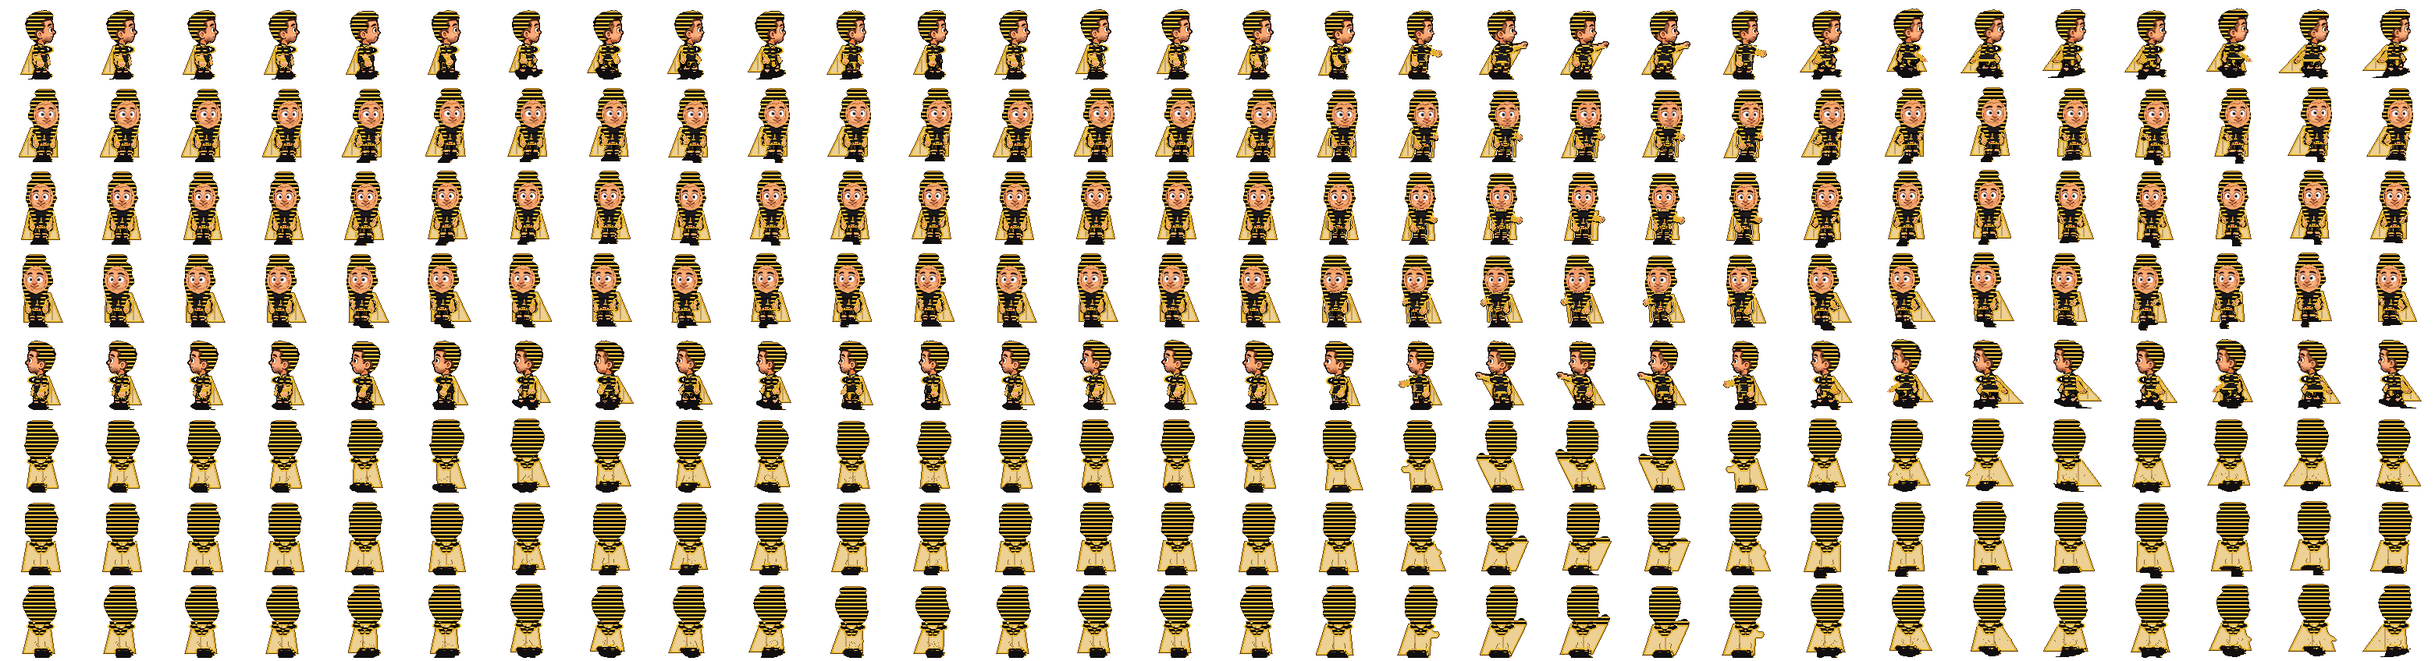
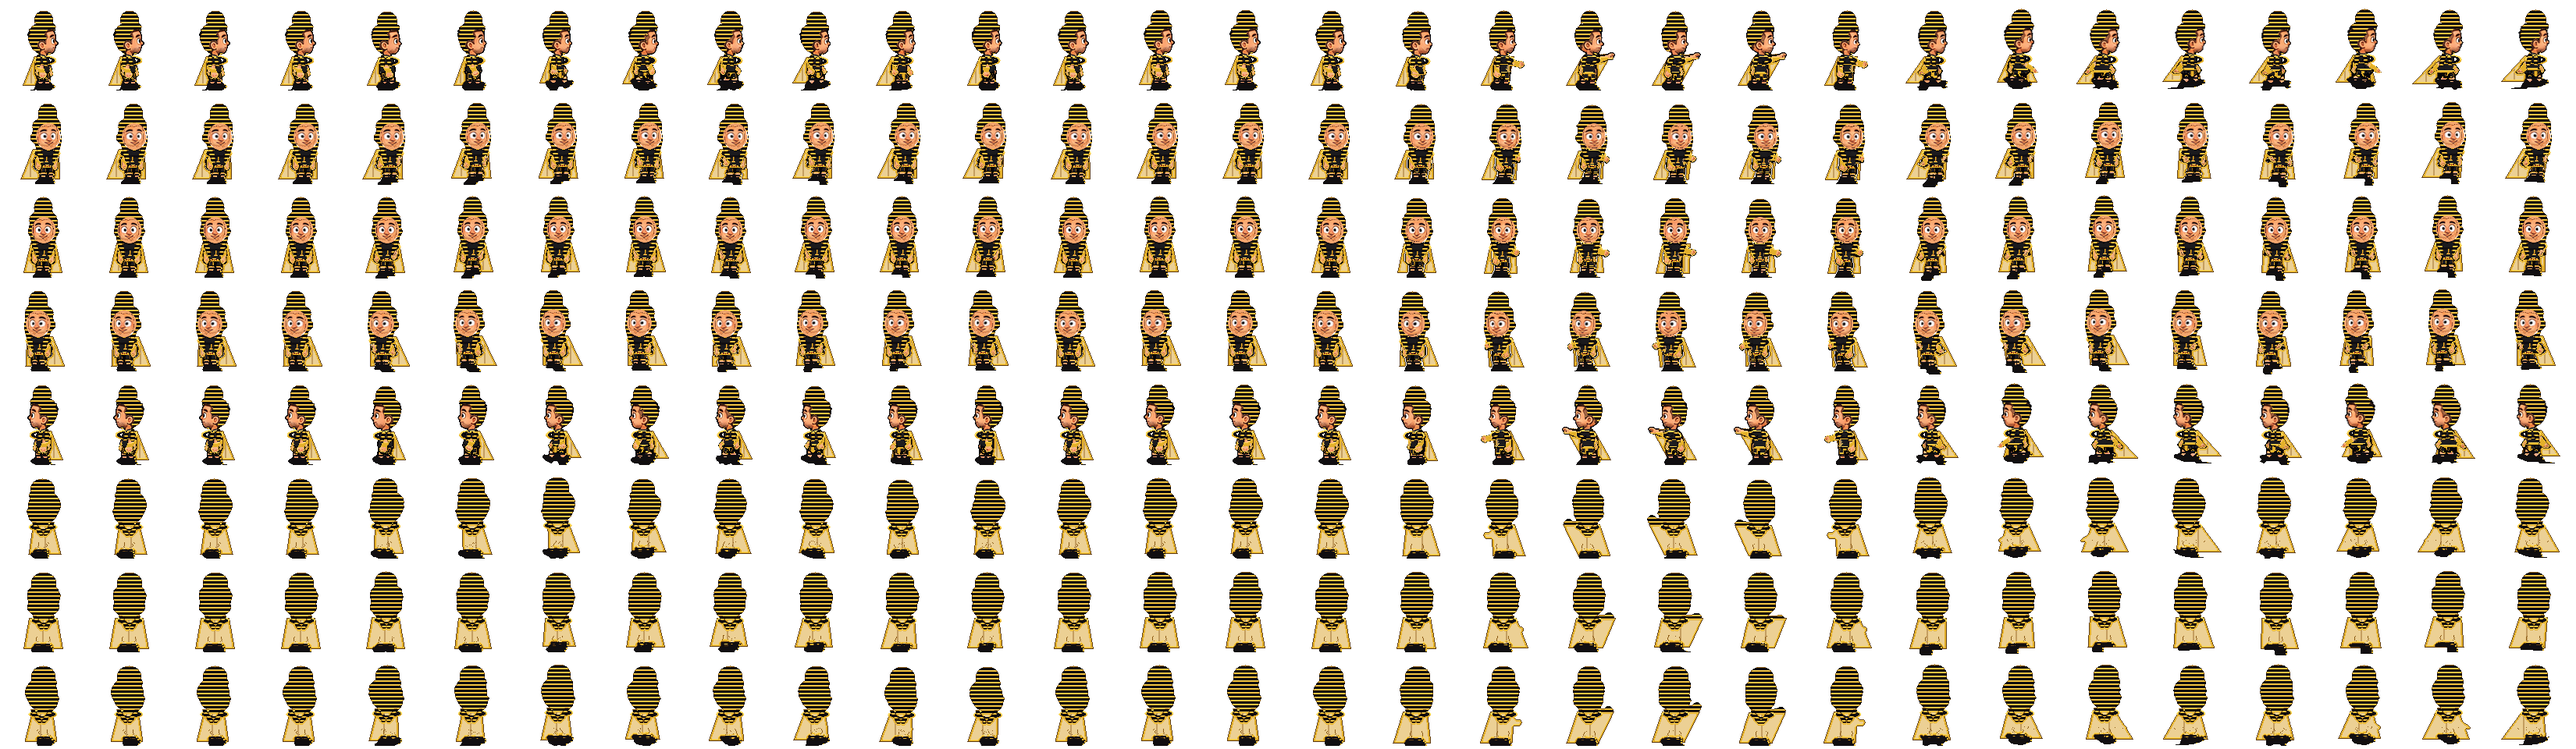
Raise the nemes crown and clean the face opening
The crown gains two stripe bands above the brow. The face hole no
longer keeps a dark rim: James's face stays exact and the stripes
meet it on the oval curve. The skins card draws Pharaoh at the same
whole-pixel scale as the other costumes.

Changed region(s): [[0.0, 0.0, 0.9949, 0.4906], [0.0, 0.5212, 0.9949, 1.0]]

diff --git a/phaser-tag-client/src/style.css b/phaser-tag-client/src/style.css
@@ -1110,6 +1110,11 @@ canvas {
 .skin-card {
   flex: 0 0 calc((100% - (var(--cols) - 1) * var(--gap)) / var(--cols));
   --s: 1.2; /* preview scale (big 2-up cards; trex frames are wide) */
+  /* sprite draw scale. Defaults to --s. Pharaoh's frame is a multiple of
+     10, so 1.2 / 1 / 0.9 / 0.8 all land on whole pixels, same as James.
+     The narrow layouts use 0.82 and 0.72, which do not, so those
+     override --draw below. */
+  --draw: var(--s);
   box-sizing: border-box;
   min-width: 0;
   display: flex;
@@ -1150,25 +1155,25 @@ canvas {
   position: absolute;
   left: 50%;
   bottom: 0;
-  width: calc(var(--fw) * var(--s) * 1px);
-  height: calc(var(--fh) * var(--s) * 1px);
+  width: calc(var(--fw) * var(--draw) * 1px);
+  height: calc(var(--fh) * var(--draw) * 1px);
   transform: translateX(-50%);
   background-image: var(--sheet);
   background-repeat: no-repeat;
   /* 30 frames per row, 8 rows; row 2 = facing the camera (S) */
-  background-size: calc(var(--fw) * var(--s) * 30px) calc(var(--fh) * var(--s) * 8px);
-  background-position-y: calc(var(--fh) * var(--s) * -2px);
+  background-size: calc(var(--fw) * var(--draw) * 30px) calc(var(--fh) * var(--draw) * 8px);
+  background-position-y: calc(var(--fh) * var(--draw) * -2px);
   image-rendering: pixelated;
   animation: skin-breathe 1.3s steps(4) infinite;
 }
 .skin-card.picked .skin-preview { animation: skin-walk .8s steps(8) infinite; }
 @keyframes skin-breathe { /* breathing frames 12-15 */
-  from { background-position-x: calc(var(--fw) * var(--s) * -12px); }
-  to { background-position-x: calc(var(--fw) * var(--s) * -16px); }
+  from { background-position-x: calc(var(--fw) * var(--draw) * -12px); }
+  to { background-position-x: calc(var(--fw) * var(--draw) * -16px); }
 }
 @keyframes skin-walk { /* walk frames 4-11 */
-  from { background-position-x: calc(var(--fw) * var(--s) * -4px); }
-  to { background-position-x: calc(var(--fw) * var(--s) * -12px); }
+  from { background-position-x: calc(var(--fw) * var(--draw) * -4px); }
+  to { background-position-x: calc(var(--fw) * var(--draw) * -12px); }
 }
 .skin-name {
   max-width: 100%;
@@ -1197,6 +1202,8 @@ canvas {
 @container pane (max-width: 339px) {
   .skin-cards { --cols: 2; --gap: 12px; }
   .skin-card { --s: .82; padding: 8px 6px 10px; }
+  /* 0.82 of a 110×120 frame is not a whole pixel */
+  .skin-card[data-skin="pharaoh"] { --draw: 0.5; }
   .skin-name { font-size: 14px; }
   .skin-note { font-size: 11px; }
 }
@@ -1227,6 +1234,7 @@ canvas {
   }
   .skin-name { align-self: center; font-size: 14px; text-align: center; }
   .skin-note { align-self: center; font-size: 11px; text-align: center; }
+  .skin-card[data-skin="pharaoh"] { --draw: 0.8; }
 }
 /* Short laptop screens: a tighter 3-up so all six skins fit unscrolled. */
 @media (max-height: 700px) {
@@ -1242,7 +1250,7 @@ canvas {
   .settings-pane { padding-top: 12px; padding-bottom: 14px; }
 }
 @media (prefers-reduced-motion: reduce) {
-  .skin-preview, .skin-card.picked .skin-preview { animation: none; background-position-x: calc(var(--fw) * var(--s) * -12px); }
+  .skin-preview, .skin-card.picked .skin-preview { animation: none; background-position-x: calc(var(--fw) * var(--draw) * -12px); }
 }
 
 /* ------------------------------------------------------------------------

diff --git a/phaser-tag-client/src/skins.ts b/phaser-tag-client/src/skins.ts
@@ -104,12 +104,13 @@ export const SKINS: Record<Skin, SkinSheet> = {
     note: "All hail, you're it!",
     texture: "kid_pharaoh",
     url: `${BASE}assets/kid_pharaoh.png`,
-    // padded: 12px each side for the cape, 6px on top for the nemes crown
-    frameWidth: 104,
-    frameHeight: 106,
-    baselineY: 102,
-    // striped crown tops out ~94px above the feet
-    artHeight: 94,
+    // padded: 15px each side for the cape, 20px on top for the tall nemes crown.
+    // 110×120 keeps the skins-card scale (1.2) on whole pixels.
+    frameWidth: 110,
+    frameHeight: 120,
+    baselineY: 116,
+    // striped crown tops out ~106px above the feet
+    artHeight: 106,
   },
 };
 

diff --git a/phaser-tag-client/tools/make_pharaoh_skin.py b/phaser-tag-client/tools/make_pharaoh_skin.py
@@ -5,7 +5,7 @@ Input:  public/assets/kid.png + kid.json (made by tools/slice_kid_sheet.py)
 Output: public/assets/kid_pharaoh.png + kid_pharaoh.json
 
 Same columns, rows and animation ranges as kid.png. Frames are padded
-(PAD_SIDE each side for the cape flare, PAD_TOP for the nemes crown), so
+(PAD_SIDE each side for the cape flare, PAD_TOP for the tall nemes crown), so
 the frame size and feet line differ from James (see src/skins.ts).
 
 Costume pixels are hard-edged (no supersampled haze) so the black-and-gold
@@ -53,8 +53,11 @@ from make_tuxedo_skin import close_streaks, lum
 HERE = Path(__file__).resolve().parent
 ASSETS = HERE.parent / "public" / "assets"
 
-PAD_TOP = 6
-PAD_SIDE = 12
+PAD_TOP = 20  # room above the hair for a tall nemes crown
+PAD_SIDE = 15  # frame width 110, so the skins card's 1.2 scale is whole pixels
+# Cloth piled above the hairline, in frame pixels. Two extra stripe
+# bands (the stripe period is 5) so the crown is not a flat cap.
+CROWN_LIFT = 14
 
 PROFILE = {"E": 1, "W": -1}
 BACK = {"NW", "N", "NE"}
@@ -255,7 +258,7 @@ def face_window(
     if oval is None:
         return coverage, np.zeros((h, w), dtype=bool), keep, None
     cx, cy, rx, ry = oval
-    coverage = _ellipse_coverage(h, w, cx, cy, rx, ry)
+    coverage = _ellipse_coverage(h, w, cx, cy, rx, ry, samples=8)
     yy, xx = np.mgrid[0:h, 0:w]
     # room around the head so the curve isn't clipped back to the silhouette
     head = dilate(alpha_mask(f) & (yy <= g.neck + 3) & (yy >= g.top - 2), 3)
@@ -288,6 +291,18 @@ def blend_lappet_edges(
     shown[band, 3] = np.where(opaque[band], 255, np.maximum(shown[band, 3], soft[band]))
 
 
+def _seam_weight(coverage: np.ndarray) -> np.ndarray:
+    """1 = face, 0 = stripe.
+
+    The ellipse's partial pixels (the curve itself) blend. The far tail,
+    a pixel the curve only nicks, snaps to solid stripe so it cannot sit
+    there as a dark fringe.
+    """
+    t = (coverage - 0.10) / 0.80
+    t = np.clip(t, 0.0, 1.0)
+    return t * t * (3.0 - 2.0 * t)
+
+
 def blend_face_oval(
     shown: np.ndarray,
     original: np.ndarray,
@@ -295,15 +310,22 @@ def blend_face_oval(
     keep: np.ndarray,
     g: Geometry,
 ) -> None:
-    """Anti-alias the stripes into the oval.
+    """Sit the face in the oval and meet the stripes on a smooth curve.
 
-    The hard 0.5 contour is replaced by a subpixel mix, so the cloth edge is
-    a curve instead of a staircase. Gaps inside the oval (a hair pixel, a
-    transparent nick) take the face's own skin colour so the hole never shows
-    the yard. Stripe rows match paint_stripes.
+    James's own face pixels stay exact, including any the oval only grazes,
+    so the cloth cannot stair-step through a cheek. A one-pixel gap between
+    skin and cloth (a hair outline, a transparent nick) is filled by the
+    same curve. Side views pass a zero coverage and are left untouched.
     """
-    band = coverage > 0.02
-    if not band.any():
+    if coverage.size == 0 or float(np.max(coverage)) <= 0.0:
+        return
+    weight = _seam_weight(coverage)
+    # the real face wins outright — never a stripe mixed into an eye or a cheek
+    weight[keep & (original[..., 3] > 0)] = 1.0
+    gap = dilate(keep, 1) & ~keep
+    opaque = (shown[..., 3] > 20) | (original[..., 3] > 20)
+    apply = (opaque & ((coverage > 0.02) | keep)) | (gap & (coverage > 0.2))
+    if not apply.any():
         return
     skin_px = original[keep & skin_mask(original)]
     if len(skin_px):
@@ -311,16 +333,16 @@ def blend_face_oval(
     else:
         skin_rgb = np.array([232.0, 186.0, 154.0], dtype=np.float32)
     face = original[..., :3].astype(np.float32)
-    face[band & ~keep] = skin_rgb
+    face[apply & ~keep] = skin_rgb
     rel = (np.arange(shown.shape[0]) - (g.top - 4))[:, None]
     gold = np.broadcast_to((rel % 5) <= 1, coverage.shape)
     stripe = np.empty(shown.shape[:2] + (3,), dtype=np.float32)
     stripe[:] = NEMES.astype(np.float32)
     stripe[gold] = GOLD.astype(np.float32)
-    c = coverage[..., None]
-    mixed = face * c + stripe * (1.0 - c)
-    shown[band, :3] = np.clip(mixed[band], 0, 255).astype(np.uint8)
-    shown[band, 3] = 255
+    w = weight[..., None]
+    mixed = face * w + stripe * (1.0 - w)
+    shown[apply, :3] = np.clip(mixed[apply], 0, 255).astype(np.uint8)
+    shown[apply, 3] = 255
 
 
 def phase_sway(anim: str, col: int) -> float:
@@ -548,6 +570,14 @@ def _profile_nemes(
     edge = dark & dilate(hair, 2)
     # stop a pixel short of the skin so the nose, ear and jaw keep their line
     cloth = (hair | crown | edge) & ~dilate(face, 1)
+    # a tall crown above the hair, same lift as the front, clear of the profile
+    xs = np.nonzero((hair & (yy < g.top + 8)).any(axis=0))[0]
+    if len(xs):
+        mid = (float(xs.min()) + float(xs.max())) / 2.0
+        half = (float(xs.max()) - float(xs.min())) / 2.0
+        dome = ellipse(yy + 0.0, xx + 0.0, mid, float(g.top), max(half * 0.92, 5.0), float(CROWN_LIFT))
+        dome &= (yy >= g.top - CROWN_LIFT) & (yy <= g.top + 2) & ~dilate(face, 2)
+        cloth |= dome
     toward = float(PROFILE[direction])
 
     def _side(y: int, back: bool) -> float:
@@ -602,9 +632,10 @@ def nemes_cloth(
     xs = np.nonzero((head & (yy < g.top + 8)).any(axis=0))[0]
     if len(xs):
         mid = (float(xs.min()) + float(xs.max())) / 2
-        half = (float(xs.max()) - float(xs.min())) / 2 + 2.0
-        dome = ellipse(yy + 0.0, xx + 0.0, mid, g.top + 1.0, half, 6.5)
-        dome &= (yy >= g.top - 4) & (yy <= g.top + 6)
+        half = (float(xs.max()) - float(xs.min())) / 2 + 1.5
+        # rounded peak well above the brow; the sides join the hair
+        dome = ellipse(yy + 0.0, xx + 0.0, mid, float(g.top), max(half * 0.96, 6.0), float(CROWN_LIFT))
+        dome &= (yy >= g.top - CROWN_LIFT) & (yy <= g.top + 5)
         cloth |= dome
     # crown ends at the jaw so it doesn't become a gold bib
     if opening.any():
@@ -657,7 +688,9 @@ def nemes_cloth(
     return cloth, lappets, lappet_cov
 
 
-def paint_stripes(img: np.ndarray, mask: np.ndarray, g: Geometry) -> None:
+def paint_stripes(
+    img: np.ndarray, mask: np.ndarray, g: Geometry, hole: np.ndarray | None = None
+) -> None:
     if not mask.any():
         return
     yy = np.arange(img.shape[0])[:, None]
@@ -667,7 +700,11 @@ def paint_stripes(img: np.ndarray, mask: np.ndarray, g: Geometry) -> None:
     stamp(img, mask & stripe, GOLD)
     lip = (mask & stripe) & ~np.pad(mask & stripe, ((1, 0), (0, 0)))[:-1]
     stamp(img, lip, GOLD_BRIGHT)
+    # outer silhouette only. A dark rim on the face hole reads as a black
+    # fringe between skin and cloth.
     edge = mask & ~erode(mask, 1)
+    if hole is not None:
+        edge &= ~dilate(hole, 2)
     stamp(img, edge & ~stripe, NEMES_EDGE)
     stamp(img, edge & stripe, GOLD_DARK)
 
@@ -925,8 +962,8 @@ def pharaohify(frame: np.ndarray, direction: str, anim: str, col: int) -> np.nda
 
     collar = paint_collar(shown, g, direction, opening)
     # nemes over the collar at the jaw, lappets over the shoulders
-    paint_stripes(shown, cloth & ~protect, g)
-    paint_stripes(shown, lappets & ~protect, g)
+    paint_stripes(shown, cloth & ~protect, g, opening)
+    paint_stripes(shown, lappets & ~protect, g, opening)
 
     paint_belt_eagle(shown, g, direction, (tunic | skirt) & ~arms)
     paint_pendant(shown, g, direction, opening)

diff --git a/phaser-tag-client/README.md b/phaser-tag-client/README.md
@@ -305,12 +305,15 @@ skin carries its own frame size and feet line. Animation keys are
   tail), claw mittens and booties, and a prominent spiked tail. Footsteps
   use a deep scary stomp on the SFX bus (`trexStep`). Re-run:
   `python3 tools/make_trex_skin.py [--preview /tmp/trex.png]`.
-- `pharaoh`: `public/assets/kid_pharaoh.png` (104x106 frames, feet on y = 102;
-  12px each side holds the cape, 6px on top holds the nemes crown).
+- `pharaoh`: `public/assets/kid_pharaoh.png` (110x120 frames, feet on y = 116;
+  15px each side holds the cape, 20px on top holds the tall nemes crown).
   Generated from `kid.png` by `tools/make_pharaoh_skin.py`. Black-and-gold
-  striped nemes with a smooth oval opening around James's face. The lappets
-  drape down and in over the chest. Side views keep James's own profile
-  (eye, brow, nose, mouth, ear, jaw) and wrap stripes over the hair only.
+  striped nemes with a tall crown and a smooth oval opening around James's
+  face (the cloth meets the skin on that curve, with no dark fringe). The
+  lappets drape down and in over the chest. Side views keep James's own
+  profile (eye, brow, nose, mouth, ear, jaw) and wrap stripes over the hair
+  only. The Skins card draws this sheet at a whole-pixel scale so the
+  stripes stay sharp.
   Back views are all headdress. Sleeveless black tunic, gold-rimmed collar, champagne cape
   to the calves, gold forearm gauntlets, black shendyt with a gold sash
   and jeweled eagle belt, pyramid pendant, and black gladiator sandals.
